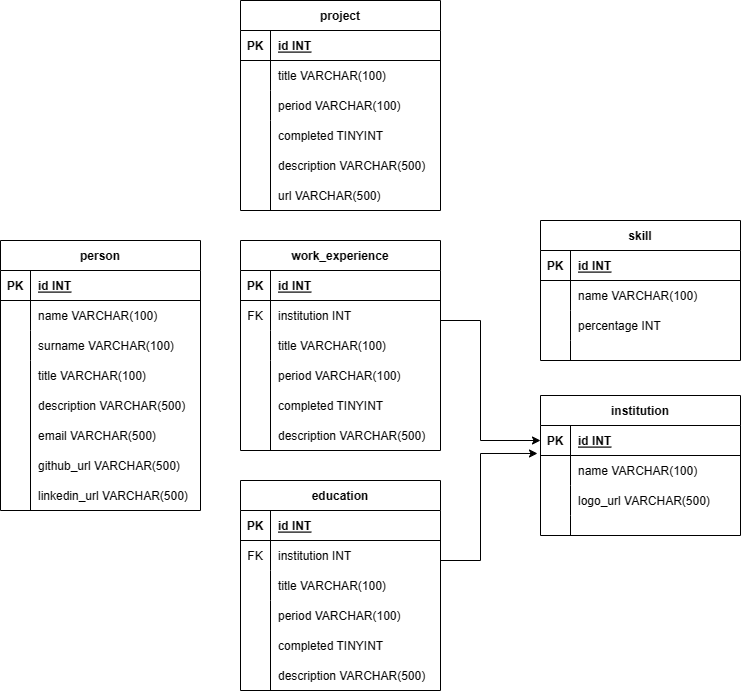
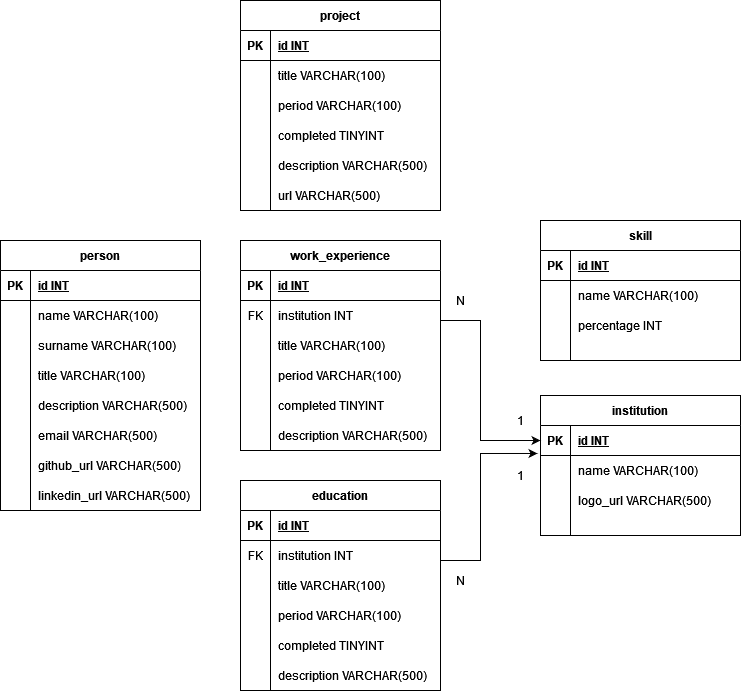
Agregado soporte para edicion de asociaciones y para CORS

diff --git a/portfolio/src/main/java/com/sebastian/portfolio/controller/WorkExperienceController.java b/portfolio/src/main/java/com/sebastian/portfolio/controller/WorkExperienceController.java
@@ -1,16 +1,21 @@
 package com.sebastian.portfolio.controller;
 
+import com.sebastian.portfolio.model.entities.Institution;
 import com.sebastian.portfolio.model.entities.WorkExperience;
+import com.sebastian.portfolio.model.exceptions.InstitutionNotFoundException;
 import com.sebastian.portfolio.model.exceptions.WorkExperienceNotFoundException;
+import com.sebastian.portfolio.model.repositories.InstitutionRepository;
 import com.sebastian.portfolio.model.repositories.WorkExperienceRepository;
 import java.util.List;
 import lombok.AllArgsConstructor;
+import org.springframework.web.bind.annotation.CrossOrigin;
 import org.springframework.web.bind.annotation.DeleteMapping;
 import org.springframework.web.bind.annotation.GetMapping;
 import org.springframework.web.bind.annotation.PathVariable;
 import org.springframework.web.bind.annotation.PostMapping;
 import org.springframework.web.bind.annotation.PutMapping;
 import org.springframework.web.bind.annotation.RequestBody;
+import org.springframework.web.bind.annotation.RequestParam;
 import org.springframework.web.bind.annotation.RestController;
 
 /**
@@ -19,9 +24,11 @@ import org.springframework.web.bind.annotation.RestController;
  */
 @RestController
 @AllArgsConstructor
+@CrossOrigin
 public class WorkExperienceController {
 
     private final WorkExperienceRepository workExperienceRepository;
+    private final InstitutionRepository institutionRepository;
 
     @GetMapping("/api/workExperience")
     public List<WorkExperience> all() {
@@ -55,5 +62,20 @@ public class WorkExperienceController {
     @DeleteMapping("/api/workExperience/{id}")
     public void deleteWorkExperience(@PathVariable Integer id) {
         workExperienceRepository.deleteById(id);
+    }
+
+    @PutMapping("/api/workExperience/{id}/institution")
+    public WorkExperience addInstitution(@PathVariable Integer id, @RequestParam Integer institutionId) {
+        Institution institution = institutionRepository.findById(institutionId).orElseThrow(() -> new InstitutionNotFoundException(institutionId));
+        WorkExperience workExperience = workExperienceRepository.findById(id).orElseThrow(() -> new WorkExperienceNotFoundException(id));
+        workExperience.addInstitution(institution);
+        return workExperienceRepository.save(workExperience);
+    }
+
+    @DeleteMapping("/api/workExperience/{id}/institution")
+    public WorkExperience removeInstitution(@PathVariable Integer id) {
+        WorkExperience workExperience = workExperienceRepository.findById(id).orElseThrow(() -> new WorkExperienceNotFoundException(id));
+        workExperience.removeInstitution();
+        return workExperienceRepository.save(workExperience);
     }
 }

diff --git a/portfolio/src/main/java/com/sebastian/portfolio/controller/EducationController.java b/portfolio/src/main/java/com/sebastian/portfolio/controller/EducationController.java
@@ -1,16 +1,21 @@
 package com.sebastian.portfolio.controller;
 
 import com.sebastian.portfolio.model.entities.Education;
+import com.sebastian.portfolio.model.entities.Institution;
 import com.sebastian.portfolio.model.exceptions.EducationNotFoundException;
+import com.sebastian.portfolio.model.exceptions.InstitutionNotFoundException;
 import com.sebastian.portfolio.model.repositories.EducationRepository;
+import com.sebastian.portfolio.model.repositories.InstitutionRepository;
 import java.util.List;
 import lombok.AllArgsConstructor;
+import org.springframework.web.bind.annotation.CrossOrigin;
 import org.springframework.web.bind.annotation.DeleteMapping;
 import org.springframework.web.bind.annotation.GetMapping;
 import org.springframework.web.bind.annotation.PathVariable;
 import org.springframework.web.bind.annotation.PostMapping;
 import org.springframework.web.bind.annotation.PutMapping;
 import org.springframework.web.bind.annotation.RequestBody;
+import org.springframework.web.bind.annotation.RequestParam;
 import org.springframework.web.bind.annotation.RestController;
 
 /**
@@ -19,9 +24,11 @@ import org.springframework.web.bind.annotation.RestController;
  */
 @RestController
 @AllArgsConstructor
+@CrossOrigin
 public class EducationController {
 
     private final EducationRepository educationRepository;
+    private final InstitutionRepository institutionRepository;
 
     @GetMapping("/api/education")
     public List<Education> all() {
@@ -55,5 +62,20 @@ public class EducationController {
     @DeleteMapping("/api/education/{id}")
     public void deleteEducation(@PathVariable Integer id) {
         educationRepository.deleteById(id);
+    }
+
+    @PutMapping("/api/education/{id}/institution")
+    public Education addInstitution(@PathVariable Integer id, @RequestParam Integer institutionId) {
+        Institution institution = institutionRepository.findById(institutionId).orElseThrow(() -> new InstitutionNotFoundException(institutionId));
+        Education education = educationRepository.findById(id).orElseThrow(() -> new EducationNotFoundException(id));
+        education.addInstitution(institution);
+        return educationRepository.save(education);
+    }
+
+    @DeleteMapping("/api/education/{id}/institution")
+    public Education removeInstitution(@PathVariable Integer id) {
+        Education education = educationRepository.findById(id).orElseThrow(() -> new EducationNotFoundException(id));
+        education.removeInstitution();
+        return educationRepository.save(education);
     }
 }

diff --git a/portfolio/src/main/java/com/sebastian/portfolio/model/entities/Institution.java b/portfolio/src/main/java/com/sebastian/portfolio/model/entities/Institution.java
@@ -1,7 +1,6 @@
 package com.sebastian.portfolio.model.entities;
 
-import com.fasterxml.jackson.annotation.JsonIdentityInfo;
-import com.fasterxml.jackson.annotation.ObjectIdGenerators;
+import com.fasterxml.jackson.annotation.JsonIgnore;
 import jakarta.persistence.CascadeType;
 import jakarta.persistence.Column;
 import jakarta.persistence.Entity;
@@ -10,6 +9,7 @@ import jakarta.persistence.GenerationType;
 import jakarta.persistence.Id;
 import jakarta.persistence.OneToMany;
 import jakarta.persistence.Table;
+import java.util.ArrayList;
 import java.util.List;
 import lombok.Data;
 
@@ -20,9 +20,6 @@ import lombok.Data;
 @Entity
 @Table(name = "institution")
 @Data
-@JsonIdentityInfo(
-        generator = ObjectIdGenerators.PropertyGenerator.class,
-        property = "id")
 public class Institution {
 
     @Id
@@ -31,8 +28,10 @@ public class Institution {
     private String name;
     @Column(name = "logo_url")
     private String logoUrl;
-    @OneToMany(mappedBy = "institution", cascade = CascadeType.ALL, orphanRemoval = true)
-    private List<Education> educations;
-    @OneToMany(mappedBy = "institution", cascade = CascadeType.ALL, orphanRemoval = true)
-    private List<WorkExperience> workExperiences;
+    @OneToMany(mappedBy = "institution", cascade = CascadeType.PERSIST)
+    @JsonIgnore
+    private List<Education> educations = new ArrayList<>();
+    @OneToMany(mappedBy = "institution", cascade = CascadeType.PERSIST)
+    @JsonIgnore
+    private List<WorkExperience> workExperiences = new ArrayList<>();
 }

diff --git a/portfolio/src/test/java/com/sebastian/portfolio/WorkExperienceTests.java b/portfolio/src/test/java/com/sebastian/portfolio/WorkExperienceTests.java
@@ -1,0 +1,40 @@
+package com.sebastian.portfolio;
+
+import com.sebastian.portfolio.model.entities.Institution;
+import com.sebastian.portfolio.model.entities.WorkExperience;
+import static org.junit.jupiter.api.Assertions.assertEquals;
+import org.junit.jupiter.api.Test;
+
+/**
+ *
+ * @author Sebastian Charras
+ */
+public class WorkExperienceTests {
+
+    @Test
+    public void WorkExperienceInstitutionRelationTest() {
+        WorkExperience e1 = new WorkExperience();
+        e1.setId(1);
+        WorkExperience e2 = new WorkExperience();
+        e2.setId(2);
+        Institution i1 = new Institution();
+        i1.setId(1);
+        assertEquals(e1.getInstitution(), null);
+        assertEquals(i1.getWorkExperiences().size(), 0);
+        e1.addInstitution(i1);
+        assertEquals(e1.getInstitution(), i1);
+        assertEquals(i1.getWorkExperiences().size(), 1);
+        e2.addInstitution(i1);
+        assertEquals(e1.getInstitution(), i1);
+        assertEquals(e2.getInstitution(), i1);
+        assertEquals(i1.getWorkExperiences().size(), 2);
+        e1.removeInstitution();
+        assertEquals(e1.getInstitution(), null);
+        assertEquals(e2.getInstitution(), i1);
+        assertEquals(i1.getWorkExperiences().size(), 1);
+        e2.removeInstitution();
+        assertEquals(e1.getInstitution(), null);
+        assertEquals(e2.getInstitution(), null);
+        assertEquals(i1.getWorkExperiences().size(), 0);
+    }
+}

diff --git a/portfolio/src/test/java/com/sebastian/portfolio/EducationTests.java b/portfolio/src/test/java/com/sebastian/portfolio/EducationTests.java
@@ -1,0 +1,40 @@
+package com.sebastian.portfolio;
+
+import com.sebastian.portfolio.model.entities.Education;
+import com.sebastian.portfolio.model.entities.Institution;
+import static org.junit.jupiter.api.Assertions.assertEquals;
+import org.junit.jupiter.api.Test;
+
+/**
+ *
+ * @author Sebastian Charras
+ */
+public class EducationTests {
+
+    @Test
+    public void EducationInstitutionRelationTest() {
+        Education e1 = new Education();
+        e1.setId(1);
+        Education e2 = new Education();
+        e2.setId(2);
+        Institution i1 = new Institution();
+        i1.setId(1);
+        assertEquals(e1.getInstitution(), null);
+        assertEquals(i1.getEducations().size(), 0);
+        e1.addInstitution(i1);
+        assertEquals(e1.getInstitution(), i1);
+        assertEquals(i1.getEducations().size(), 1);
+        e2.addInstitution(i1);
+        assertEquals(e1.getInstitution(), i1);
+        assertEquals(e2.getInstitution(), i1);
+        assertEquals(i1.getEducations().size(), 2);
+        e1.removeInstitution();
+        assertEquals(e1.getInstitution(), null);
+        assertEquals(e2.getInstitution(), i1);
+        assertEquals(i1.getEducations().size(), 1);
+        e2.removeInstitution();
+        assertEquals(e1.getInstitution(), null);
+        assertEquals(e2.getInstitution(), null);
+        assertEquals(i1.getEducations().size(), 0);
+    }
+}

diff --git a/portfolio/src/main/java/com/sebastian/portfolio/model/entities/Education.java b/portfolio/src/main/java/com/sebastian/portfolio/model/entities/Education.java
@@ -1,7 +1,5 @@
 package com.sebastian.portfolio.model.entities;
 
-import com.fasterxml.jackson.annotation.JsonIdentityInfo;
-import com.fasterxml.jackson.annotation.ObjectIdGenerators;
 import jakarta.persistence.Entity;
 import jakarta.persistence.GeneratedValue;
 import jakarta.persistence.GenerationType;
@@ -19,9 +17,6 @@ import lombok.Data;
 @Entity
 @Table(name = "education")
 @Data
-@JsonIdentityInfo(
-        generator = ObjectIdGenerators.PropertyGenerator.class,
-        property = "id")
 public class Education implements Serializable {
 
     @Id
@@ -34,4 +29,14 @@ public class Education implements Serializable {
     private String period;
     private Boolean completed;
     private String description;
+
+    public void addInstitution(Institution institution) {
+        this.institution = institution;
+        institution.getEducations().add(this);
+    }
+
+    public void removeInstitution() {
+        institution.getEducations().remove(this);
+        this.institution = null;
+    }
 }

diff --git a/portfolio/src/main/java/com/sebastian/portfolio/model/entities/WorkExperience.java b/portfolio/src/main/java/com/sebastian/portfolio/model/entities/WorkExperience.java
@@ -1,7 +1,5 @@
 package com.sebastian.portfolio.model.entities;
 
-import com.fasterxml.jackson.annotation.JsonIdentityInfo;
-import com.fasterxml.jackson.annotation.ObjectIdGenerators;
 import jakarta.persistence.Entity;
 import jakarta.persistence.GeneratedValue;
 import jakarta.persistence.GenerationType;
@@ -18,9 +16,6 @@ import lombok.Data;
 @Entity
 @Table(name = "work_experience")
 @Data
-@JsonIdentityInfo(
-        generator = ObjectIdGenerators.PropertyGenerator.class,
-        property = "id")
 public class WorkExperience {
 
     @Id
@@ -33,4 +28,14 @@ public class WorkExperience {
     private String period;
     private Boolean completed;
     private String description;
+
+    public void addInstitution(Institution institution) {
+        this.institution = institution;
+        institution.getWorkExperiences().add(this);
+    }
+
+    public void removeInstitution() {
+        institution.getWorkExperiences().remove(this);
+        this.institution = null;
+    }
 }

diff --git a/portfolio/src/main/java/com/sebastian/portfolio/controller/InstitutionController.java b/portfolio/src/main/java/com/sebastian/portfolio/controller/InstitutionController.java
@@ -5,6 +5,7 @@ import com.sebastian.portfolio.model.exceptions.InstitutionNotFoundException;
 import com.sebastian.portfolio.model.repositories.InstitutionRepository;
 import java.util.List;
 import lombok.AllArgsConstructor;
+import org.springframework.web.bind.annotation.CrossOrigin;
 import org.springframework.web.bind.annotation.DeleteMapping;
 import org.springframework.web.bind.annotation.GetMapping;
 import org.springframework.web.bind.annotation.PathVariable;
@@ -19,6 +20,7 @@ import org.springframework.web.bind.annotation.RestController;
  */
 @RestController
 @AllArgsConstructor
+@CrossOrigin
 public class InstitutionController {
 
     private final InstitutionRepository institutionRepository;

diff --git a/portfolio/src/main/java/com/sebastian/portfolio/controller/ProjectController.java b/portfolio/src/main/java/com/sebastian/portfolio/controller/ProjectController.java
@@ -5,6 +5,7 @@ import com.sebastian.portfolio.model.exceptions.ProjectNotFoundException;
 import com.sebastian.portfolio.model.repositories.ProjectRepository;
 import java.util.List;
 import lombok.AllArgsConstructor;
+import org.springframework.web.bind.annotation.CrossOrigin;
 import org.springframework.web.bind.annotation.DeleteMapping;
 import org.springframework.web.bind.annotation.GetMapping;
 import org.springframework.web.bind.annotation.PathVariable;
@@ -19,6 +20,7 @@ import org.springframework.web.bind.annotation.RestController;
  */
 @RestController
 @AllArgsConstructor
+@CrossOrigin
 public class ProjectController {
 
     private final ProjectRepository projectRepository;

diff --git a/portfolio/src/main/java/com/sebastian/portfolio/controller/PersonController.java b/portfolio/src/main/java/com/sebastian/portfolio/controller/PersonController.java
@@ -5,6 +5,7 @@ import com.sebastian.portfolio.model.exceptions.PersonNotFoundException;
 import com.sebastian.portfolio.model.repositories.PersonRepository;
 import java.util.List;
 import lombok.AllArgsConstructor;
+import org.springframework.web.bind.annotation.CrossOrigin;
 import org.springframework.web.bind.annotation.DeleteMapping;
 import org.springframework.web.bind.annotation.GetMapping;
 import org.springframework.web.bind.annotation.PathVariable;
@@ -19,6 +20,7 @@ import org.springframework.web.bind.annotation.RestController;
  */
 @RestController
 @AllArgsConstructor
+@CrossOrigin
 public class PersonController {
 
     private final PersonRepository personRepository;

diff --git a/portfolio/src/main/java/com/sebastian/portfolio/controller/SkillController.java b/portfolio/src/main/java/com/sebastian/portfolio/controller/SkillController.java
@@ -5,6 +5,7 @@ import com.sebastian.portfolio.model.exceptions.SkillNotFoundException;
 import com.sebastian.portfolio.model.repositories.SkillRepository;
 import java.util.List;
 import lombok.AllArgsConstructor;
+import org.springframework.web.bind.annotation.CrossOrigin;
 import org.springframework.web.bind.annotation.DeleteMapping;
 import org.springframework.web.bind.annotation.GetMapping;
 import org.springframework.web.bind.annotation.PathVariable;
@@ -19,6 +20,7 @@ import org.springframework.web.bind.annotation.RestController;
  */
 @RestController
 @AllArgsConstructor
+@CrossOrigin
 public class SkillController {
 
     private final SkillRepository skillRepository;
